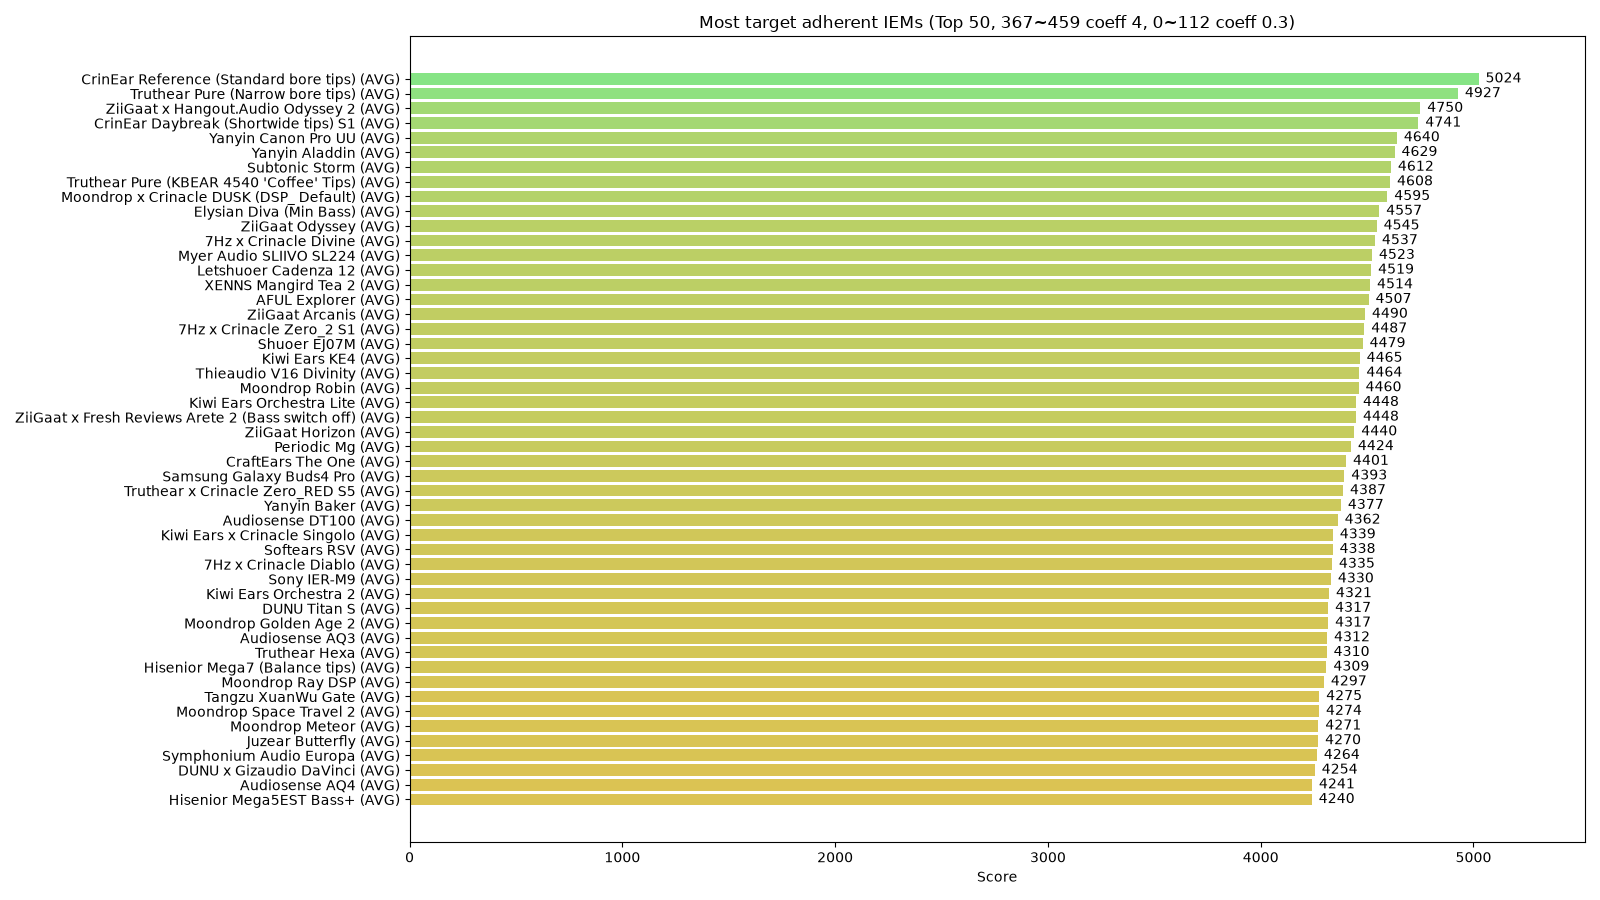
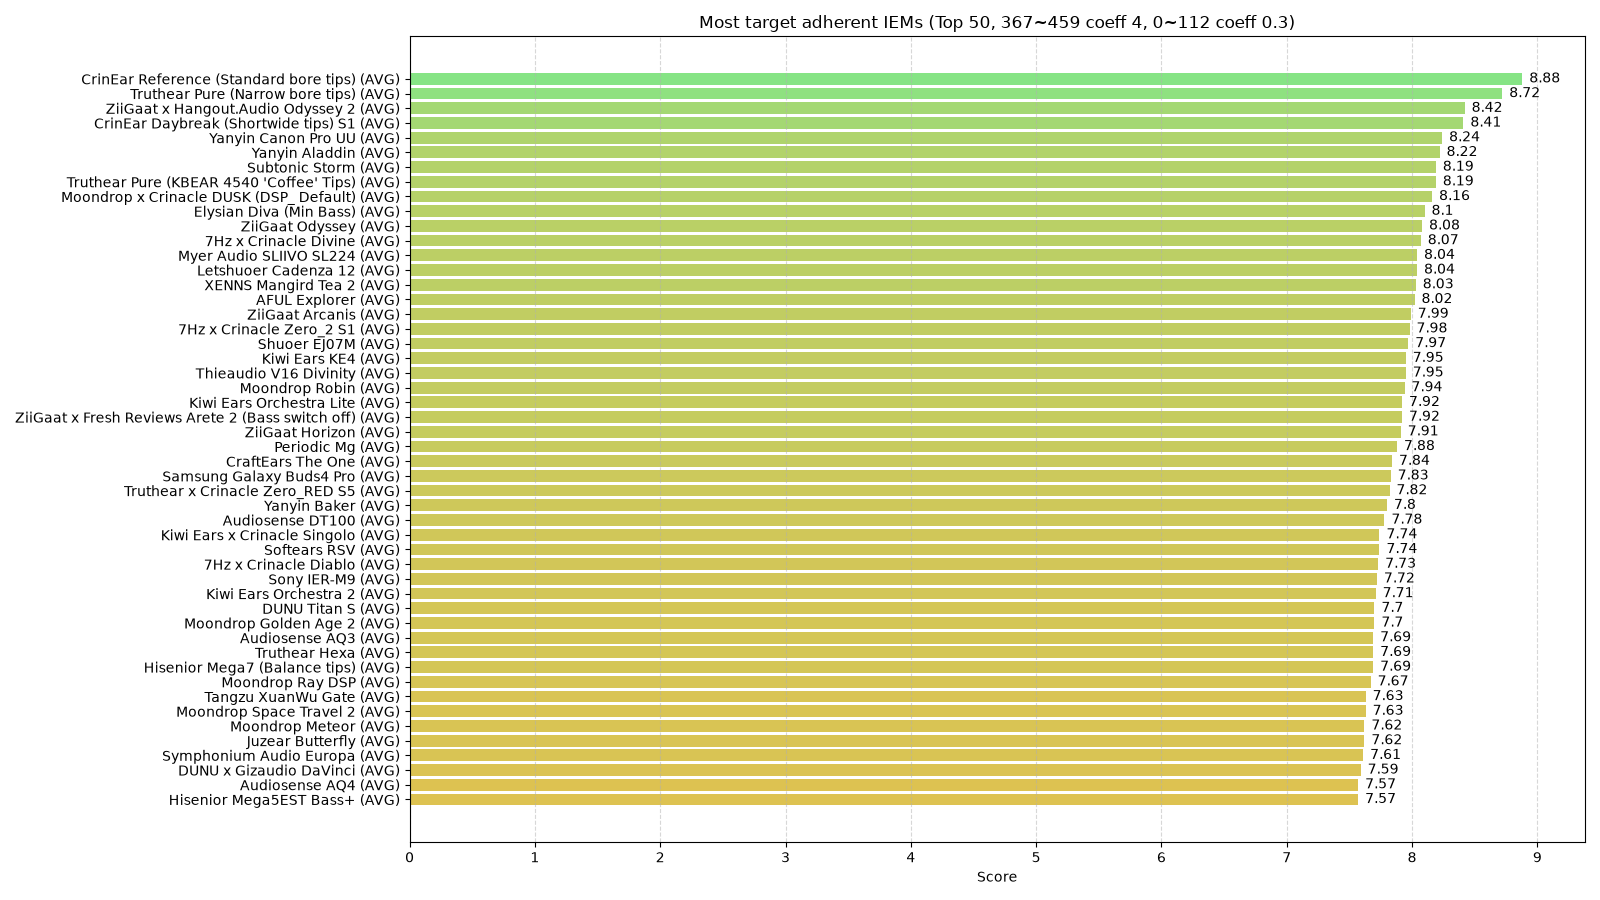
Change score system, add distribution graph, update README

diff --git a/generate_stats.py b/generate_stats.py
@@ -28,6 +28,9 @@ BASS_COEFF = 0.3
 # Ignore FR above x Hz. 463: ~16kHz, should probably not be changed
 DATA_LIMIT = 463
 
+# delta_score = COMP - [actual sum of deltas]; so the higher score means a better adherence
+COMPENSATION = 6000
+
 files = sorted(Path().glob(FREQUENCY_RESPONSES))
 frequency_response_dict_unnormalized = {}
 for file in files:
@@ -72,16 +75,18 @@ TOTAL_IEM_COUNT = len(deltas_iem)
 
 # Adjust delta_score so the highest score = best adherence
 for i in range(TOTAL_IEM_COUNT):
-    deltas_score[i] = deltas_score[-1] - deltas_score[i]
+    deltas_score[i] = round((COMPENSATION - deltas_score[i]) / 600, 2)
 
 
 # Results
-if GRAPH_OF_SCORES:
+def graphs() -> None:
     top_iem = deltas_iem[:SHOW]
     top_score = deltas_score[:SHOW]
     bottom_score = deltas_score[-SHOW:]
     bottom_iem = deltas_iem[-SHOW:]
-    max_limit = max(deltas_score) + 500
+    bound_score = (
+        max(deltas_score) + 0.5
+    )  # Padding so the score bars don't go out the graph
 
     # Cool colors !
     cmap = mcolors.LinearSegmentedColormap.from_list(
@@ -103,6 +108,8 @@ if GRAPH_OF_SCORES:
     plot = plt.barh(top_iem, top_score, color=bar_colors_top)
 
     plt.xlabel("Score")
+    plt.xticks(range(0, int(bound_score) + 1, 1))
+    plt.grid(axis="x", linestyle="--", alpha=0.5)
     plt.title(
         f"Most target adherent IEMs (Top {SHOW}, {PINNA_WEIGHT_START}~{PINNA_WEIGHT_END} coeff {PINNA_COEFF}, {BASS_WEIGHT_START}~{BASS_WEIGHT_END} coeff {BASS_COEFF})"
     )
@@ -112,10 +119,29 @@ if GRAPH_OF_SCORES:
     # Higher score at the top
     plt.gca().invert_yaxis()
     # "Normalize" scale
-    plt.xlim(0, max_limit)
+    plt.xlim(0, bound_score)
     plt.show()
 
-    # SECOND PLOT: Histogram
+    # SECOND PLOT: Worst
+    plt.figure(figsize=(16, 9))
+    plot = plt.barh(bottom_iem, bottom_score, color=bar_colors_bottom)
+
+    plt.xlabel("Score")
+    plt.xticks(range(0, int(bound_score) + 1, 1))
+    plt.grid(axis="x", linestyle="--", alpha=0.5)
+    plt.title(
+        f"Worst target adherent IEMs (Top {SHOW}, {PINNA_WEIGHT_START}~{PINNA_WEIGHT_END} coeff {PINNA_COEFF}, {BASS_WEIGHT_START}~{BASS_WEIGHT_END} coeff {BASS_COEFF})"
+    )
+    plt.bar_label(plot, padding=5)
+    # Show the hole iem name
+    plt.tight_layout()
+    # Higher score at the top
+    plt.gca().invert_yaxis()
+    # "Normalize" scale
+    plt.xlim(0, bound_score)
+    plt.show()
+
+    # THIRD PLOT: Histogram
     plt.figure(figsize=(16, 9))
     plt.bar(
         np.arange(1, TOTAL_IEM_COUNT + 1),
@@ -127,35 +153,48 @@ if GRAPH_OF_SCORES:
     step = 25
     x_ticks = sorted(list(range(1, TOTAL_IEM_COUNT + 1, step)) + [TOTAL_IEM_COUNT])
     plt.xticks(x_ticks)
+    plt.yticks(range(0, int(max(deltas_score)) + 1, 1))
     plt.xlabel("IEMs")
     plt.ylabel("Score")
 
-    plt.title("Score histogram of the whole database")
-    plt.grid(axis="y", linestyle="--", alpha=0.3)
+    plt.title("Score histogram")
+    plt.grid(axis="y", linestyle="--", alpha=0.5)
     plt.tight_layout()
     plt.gca().invert_xaxis()
     plt.show()
 
-    # THIRD PLOT: Worst
+    # FOURTH PLOT: Distribution
     plt.figure(figsize=(16, 9))
-    plot = plt.barh(bottom_iem, bottom_score, color=bar_colors_bottom)
-
-    plt.xlabel("Score")
-    plt.title(
-        f"Worst target adherent IEMs (Top {SHOW}, {PINNA_WEIGHT_START}~{PINNA_WEIGHT_END} coeff {PINNA_COEFF}, {BASS_WEIGHT_START}~{BASS_WEIGHT_END} coeff {BASS_COEFF})"
-    )
-    plt.bar_label(plot, padding=5)
-    # Show the hole iem name
+    vertical_bars = [
+        "0~0.9",
+        "1~1.9",
+        "2~2.9",
+        "3~3.9",
+        "4~4.9",
+        "5~5.9",
+        "6~6.9",
+        "7~7.9",
+        "8~8.9",
+        "9~10",
+    ]
+    distribution = [0] * len(vertical_bars)
+    for score in deltas_score:
+        pos = max(0, min(int(score), len(vertical_bars) - 1))
+        distribution[pos] += 1
+    plot = plt.bar(vertical_bars, distribution)
+    plt.title("Score distribution")
+    plt.ylabel("Count")
+    plt.yticks(range(0, max(distribution) + 1, 10))
+    plt.grid(axis="y", linestyle="--", alpha=0.5)
     plt.tight_layout()
-    # Higher score at the top
-    plt.gca().invert_yaxis()
-    # "Normalize" scale
-    plt.xlim(0, max_limit)
     plt.show()
 
 
-else:
-    print(f"Closest IEMs to {TARGET}: ")
+if __name__ == "__main__":
+    if not GRAPH_OF_SCORES:
+        print(f"Closest IEMs to {TARGET}: ")
 
-    for i in range(SHOW):
-        print(f"{i + 1}. {deltas_iem[i]} with {deltas_score[i]} points")
+        for i in range(SHOW):
+            print(f"{i + 1}. {deltas_iem[i]} with {deltas_score[i]} points")
+    else:
+        graphs()

diff --git a/README.md b/README.md
@@ -17,7 +17,7 @@ In simple terms, hopefully, the goal of this project is to:
 2.  Find the IEM with **potentially** the closest sound to that ideal.
 
 Technical explanation:  
-Each IEM in the "neutral_fr" folder has been equalized as coherently as possible to my DFHRTF (Diffuse Field Head Related Transfer Function), so I can't hear any peaks and dips from a sinesweep, and sounds flat.  
+Each IEM in the "neutral_fr" folder has been equalized so every frequency is the same volume in a sinesweep, except in the bass as its harder to tell.  
 I made sure it follows more or less the preference bounds, so the tilt is coherent (-1dB/ocatve).
 
 It has been done by ear and using 5128 data, so it can't come even close to what a measurement of the HRTF in the diffuse field of a lab can provide. But by averaging, my hope is to dilute HpTF effect (variation in frequency response not related to anatomy but the IEM load), as well as inaccuracies.
@@ -47,3 +47,4 @@ Data points have a logarithmic distribution, see the target txt file.
 ![Most target adherent IEMs (Top 50, coeff 3 between 1 to 17kHz)](plots/top.png)
 ![Worst target adherent IEMs (Top 50, coeff 3 between 1 to 17kHz)](plots/bottom.png)
 ![Histogram of scores of the whole database](plots/histogram.png)
+![Distribution of scores of the whole database](plots/distribution.png)
